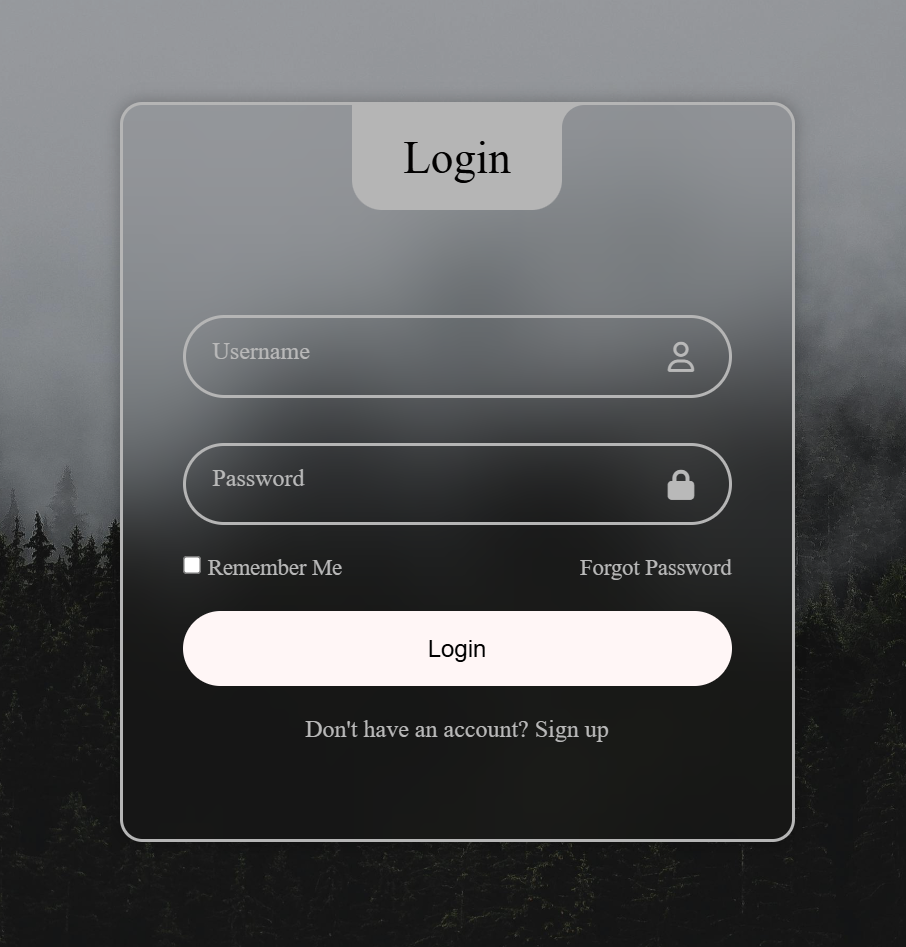
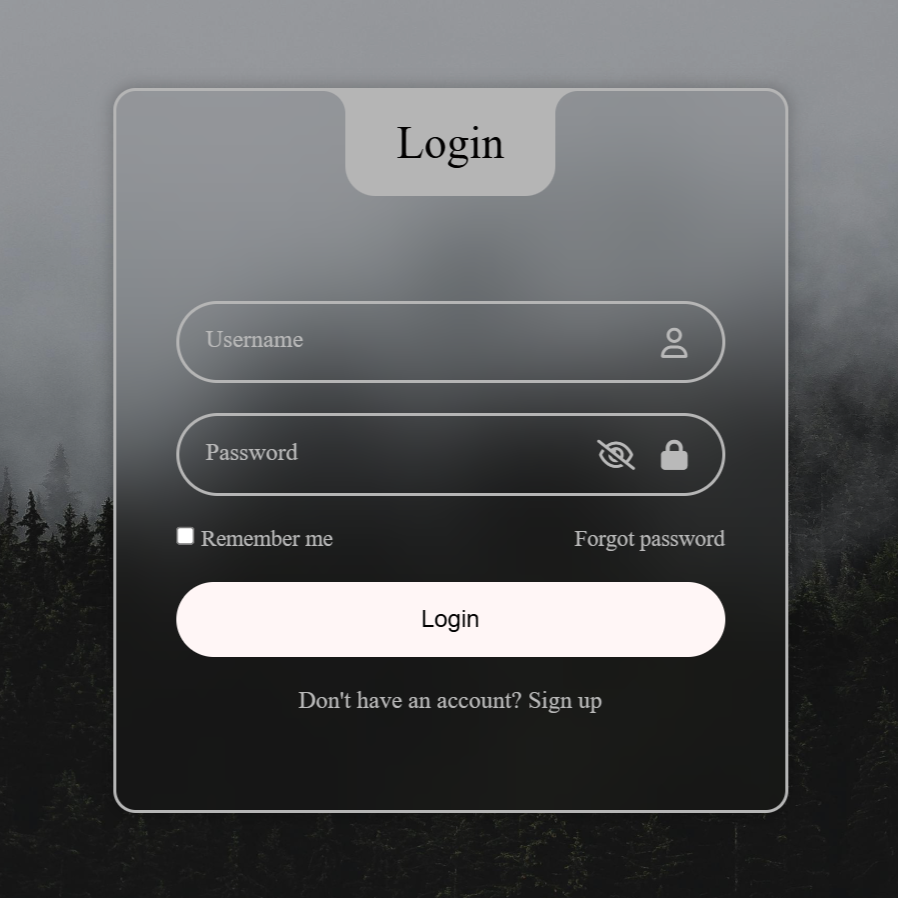
Add files via upload

diff --git a/style.css b/style.css
@@ -72,7 +72,7 @@ a:hover {
     left: -30px;
     position: absolute;
     border-top-right-radius: 50%;
-    width: 30x;
+    width: 30px;
     height: 30px;
     box-shadow: 15px 0 0 0 var(--primary-color);
     background: transparent;
@@ -107,21 +107,20 @@ a:hover {
     border-radius: 30px;
     border: 2px solid var(--primary-color);
     outline: none;
-}
-
-#user {
-    margin-bottom: 10px;
+    transition: 0.3s;
 }
 
 .label {
     position: absolute;
-    transition: 0.2s;
-    top: 15px;
+    top: 17px;
     left: 20px;
+    font-size: 16px;
+    color: var(--second-color);
+    transition: 0.3s;
 }
 
 .input_field:focus ~ .label,
-.input_field:valid .label {
+.input_field:valid ~ .label {
     position: absolute;
     font-size: 14px;
     top: -10px;
@@ -159,6 +158,8 @@ a:hover {
 
 .input-submit:hover {
     background: var(--second-color);
+    transform: scale(1.05);
+    background-color: var(--primary-color);
 }
 
 .signup {
@@ -169,7 +170,7 @@ a:hover {
     font-weight: 500;
 }
 
-@media only screen and (max-width: 564px){
+@media only screen and (max-width: 564px) {
     .container {
         padding: 20px;
     }
@@ -177,4 +178,17 @@ a:hover {
     .login_container {
         padding: 7.5em 1.5em 4em 1.5em;
     }
+}
+
+#password {
+    padding-right: 50px;
+}
+
+.toggle-password {
+    position: absolute;
+    top: 18px;
+    right: 60px;
+    font-size: 20px;
+    cursor: pointer;
+    transition: 0.3s;
 }

diff --git a/script.js b/script.js
@@ -1,0 +1,35 @@
+document.addEventListener("DOMContentLoaded", function() {
+    const userInput = document.getElementById('user');
+    const passwordInput = document.getElementById('password');
+    const submitBtn = document.getElementById('submitBtn');
+    const togglePassword = document.getElementById('togglePassword');
+    const inputFields = document.querySelectorAll('.input_field');
+    
+    togglePassword.addEventListener('click', function() {
+        if (passwordInput.type === 'password') {
+            passwordInput.type = 'text';
+            togglePassword.classList.replace('fa-eye-slash', 'fa-eye');
+        } else {
+            passwordInput.type = 'password';
+            togglePassword.classList.replace('fa-eye', 'fa-eye-slash');
+        }
+    });
+
+    inputFields.forEach(field => {
+        field.addEventListener('focus', function() {
+            this.parentElement.classList.add('focused');
+        });
+        field.addEventListener('blur', function() {
+            if (this.value === '') {
+                this.parentElement.classList.remove('focused');
+            }
+        });
+    });
+
+    submitBtn.addEventListener('click', function(event) {
+        if (!userInput.value || !passwordInput.value) {
+            event.preventDefault();
+            alert('Please fill in both the username and password!');
+        }
+    });
+});

diff --git a/index.html b/index.html
@@ -28,21 +28,22 @@
                 <input type="password" id="password" class="input_field" required>
                 <label for="password" class="label">Password</label>
                 <i class="fa-solid fa-lock icon"></i>
+                <i class="fa-regular fa-eye-slash toggle-password" id="togglePassword"></i>
             </div>
 
             <div class="remember-forgot">
                 <div class="remember-me">
                     <input type="checkbox" id="remember">
-                    <label for="remember">Remember Me</label>
+                    <label for="remember">Remember me</label>
                 </div>
 
                 <div class="forgot">
-                    <a href="#">Forgot Password</a>
+                    <a href="#">Forgot password</a>
                 </div>
             </div>
 
             <div class="input_wrapper">
-                <input type="submit" class="input-submit" value="Login">
+                <input type="submit" class="input-submit" value="Login" id="submitBtn">
             </div>
 
             <div class="signup">
@@ -52,5 +53,6 @@
         </div>
     </div>
 
+    <script src="script.js"></script>
 </body>
 </html>
